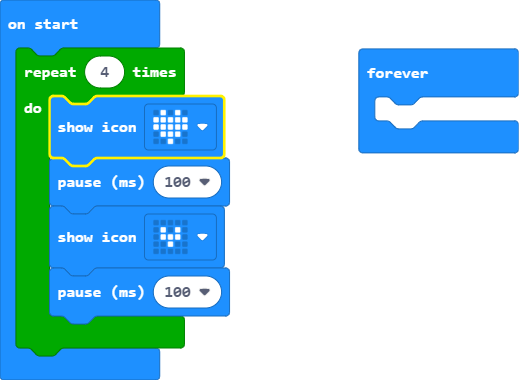
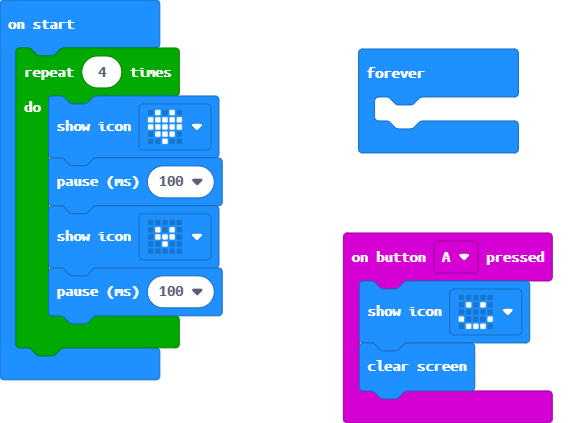
Update pxt.json, main.blocks, main.ts

diff --git a/main.ts b/main.ts
@@ -1,3 +1,7 @@
+input.onButtonPressed(Button.A, function () {
+    basic.showIcon(IconNames.Happy)
+    basic.clearScreen()
+})
 for (let index = 0; index < 4; index++) {
     basic.showIcon(IconNames.Heart)
     basic.pause(100)
